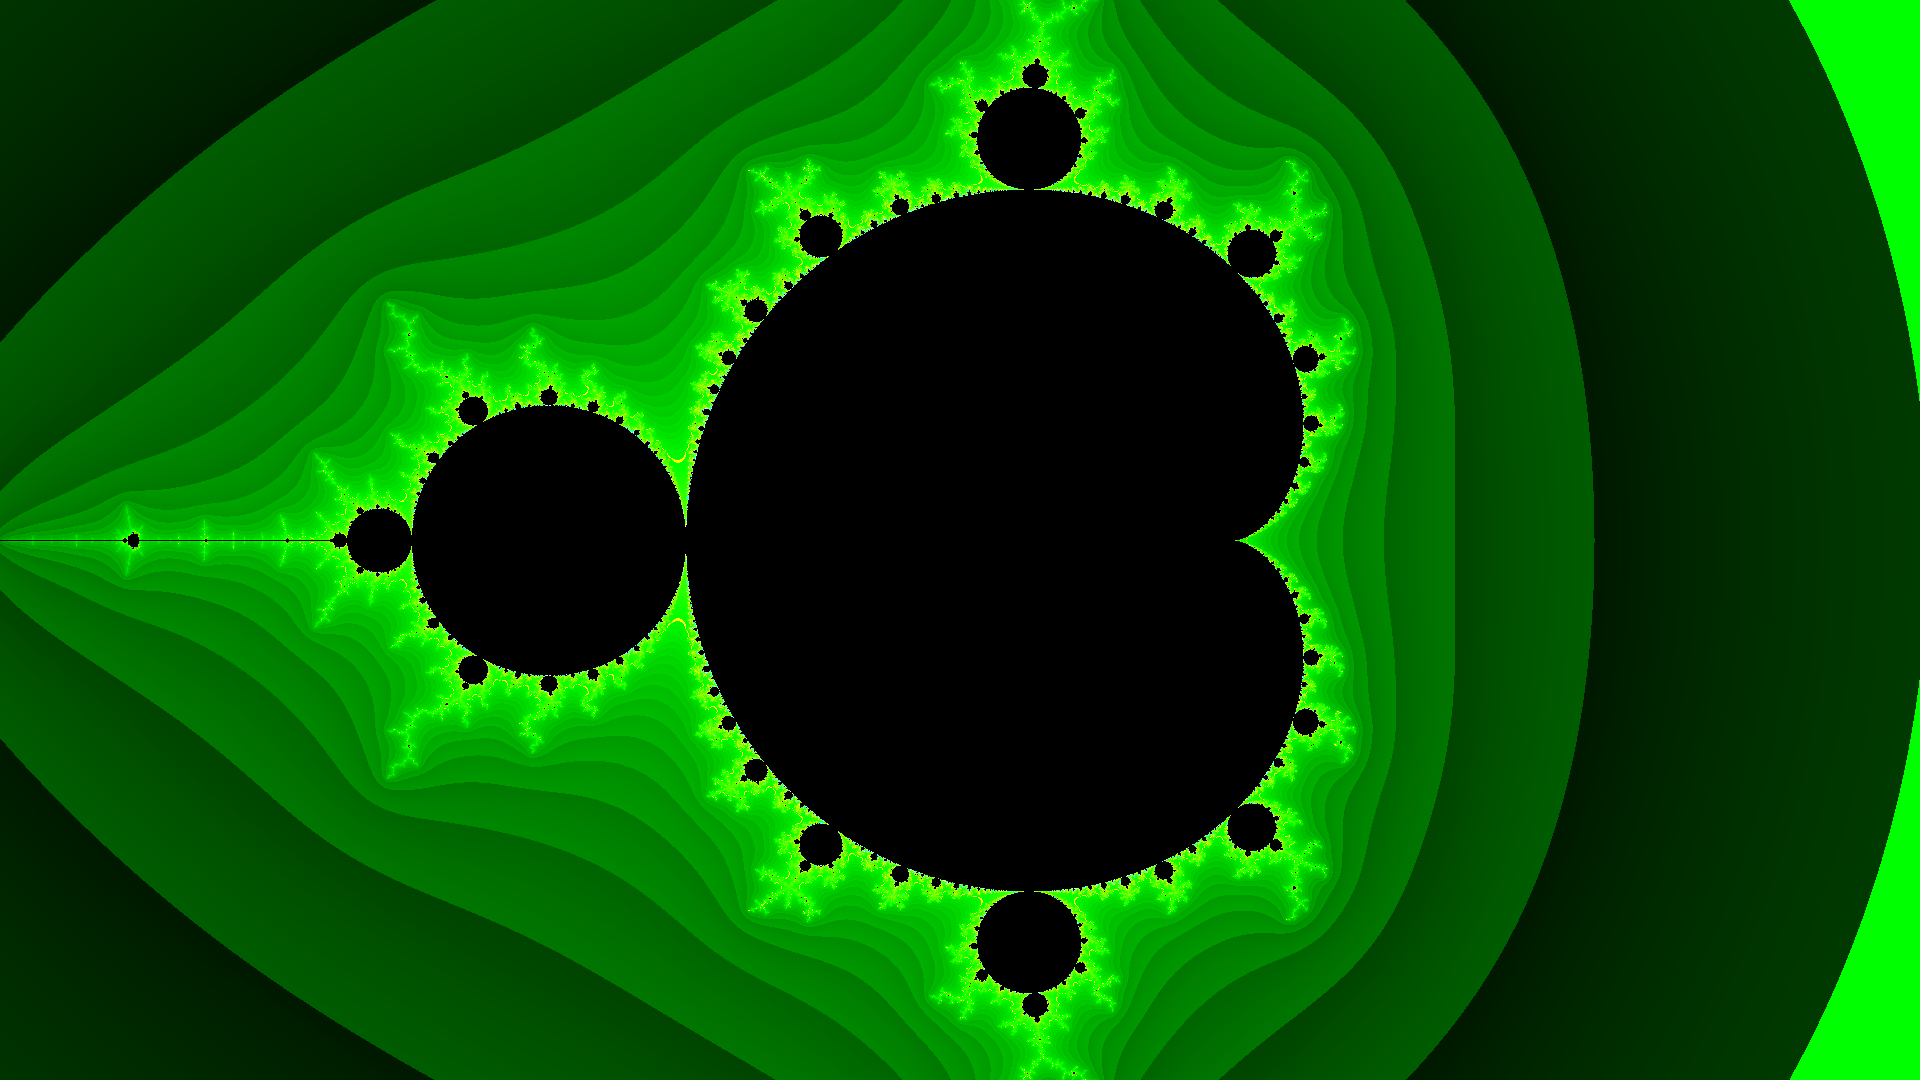
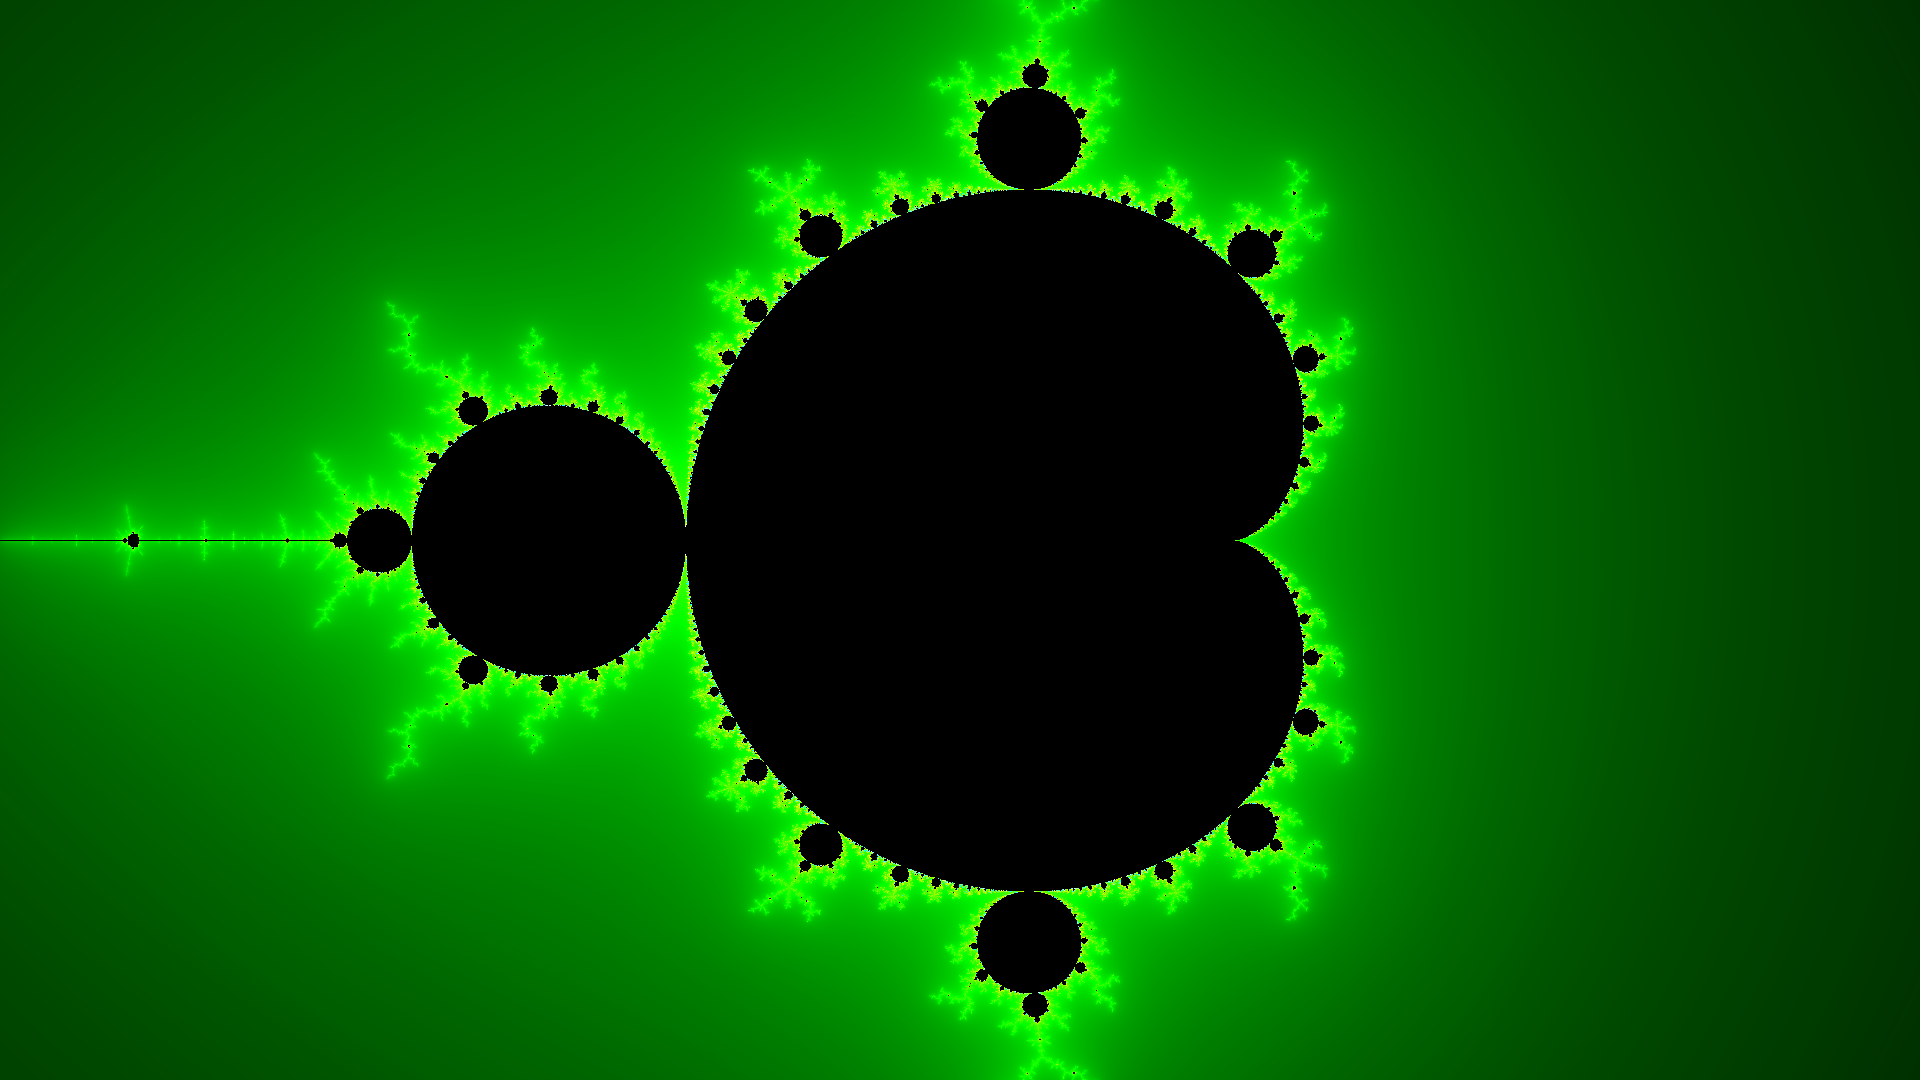
fix mod

diff --git a/mandelbrot.c b/mandelbrot.c
@@ -53,7 +53,7 @@ rgb mandelbrot(int px, int py, rgb* palatte){
         c2 = palatte[((int)i)+1];
     }
 
-    double mod = ((int)i) - i; // cant mod doubles
+    double mod = i - ((int)i) ; // cant mod doubles
     return (rgb){
         .r = (int)lerp(c1.r, c2.r, mod),
         .g = (int)lerp(c1.g, c2.g, mod),
